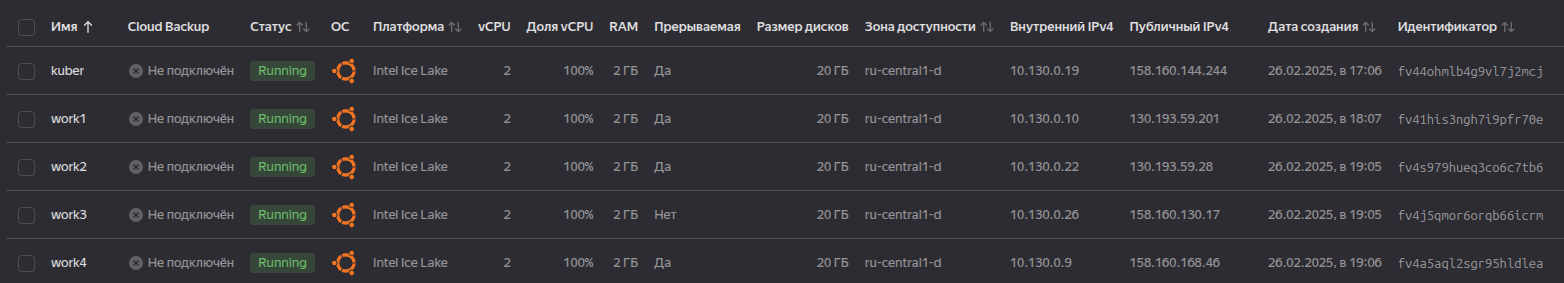
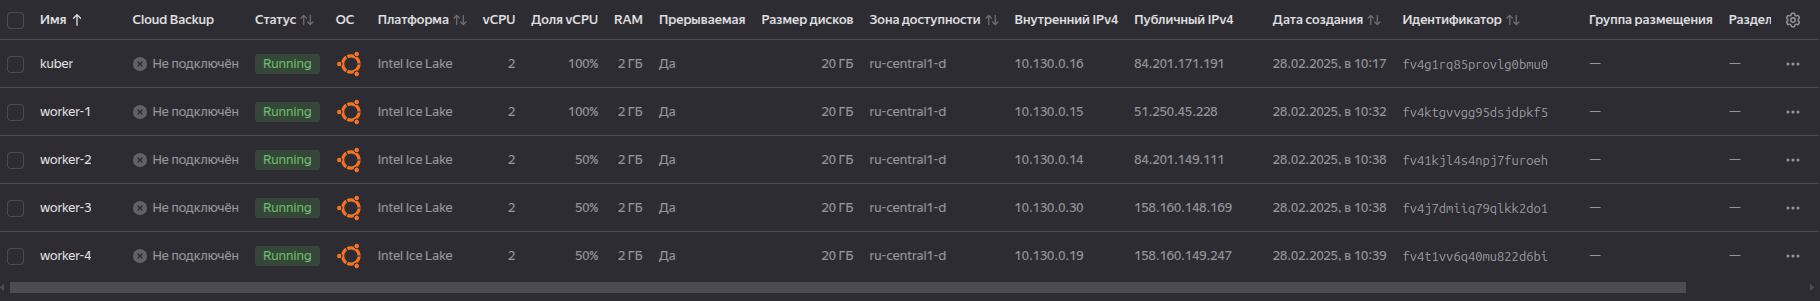
HomeWork 12-2

diff --git a/3.2/README.md b/3.2/README.md
@@ -44,9 +44,9 @@ sudo systemctl enable --now kubelet
 - Инициализируем кластер, прописывая наши значения:
 ```bash
 sudo kubeadm init \
---apiserver-advertise-address=10.130.0.19 \
+--apiserver-advertise-address=10.130.0.16 \
 --pod-network-cidr 10.244.0.0/16 \
---apiserver-cert-extra-sans=158.160.144.244
+--apiserver-cert-extra-sans=84.201.171.191
 ```
 
 - При сбое запустить одной командой:
@@ -85,6 +85,12 @@ sudo cp -i /etc/kubernetes/admin.conf $HOME/.kube/config
 sudo chown $(id -u):$(id -g) $HOME/.kube/config
 ```
 
+### Устанавливаем сетевой плагин
+```bash
+kubectl apply -f https://raw.githubusercontent.com/coreos/flannel/master/Documentation/kube-flannel.yml
+```
+
+
 ### Подключаем новые ноды
 Создаём новые виртуальные машины для worker.
 ![workers](images/image02.png)
@@ -94,6 +100,6 @@ sudo chown $(id -u):$(id -g) $HOME/.kube/config
 На каждой ноде выполняем  kubeadm join, который получили при установке мастер ноды
 
 Проверяем подключенные ноды:  
-![nodes](images/image03.png)
+![nodes](images/image04.png)
 
 
